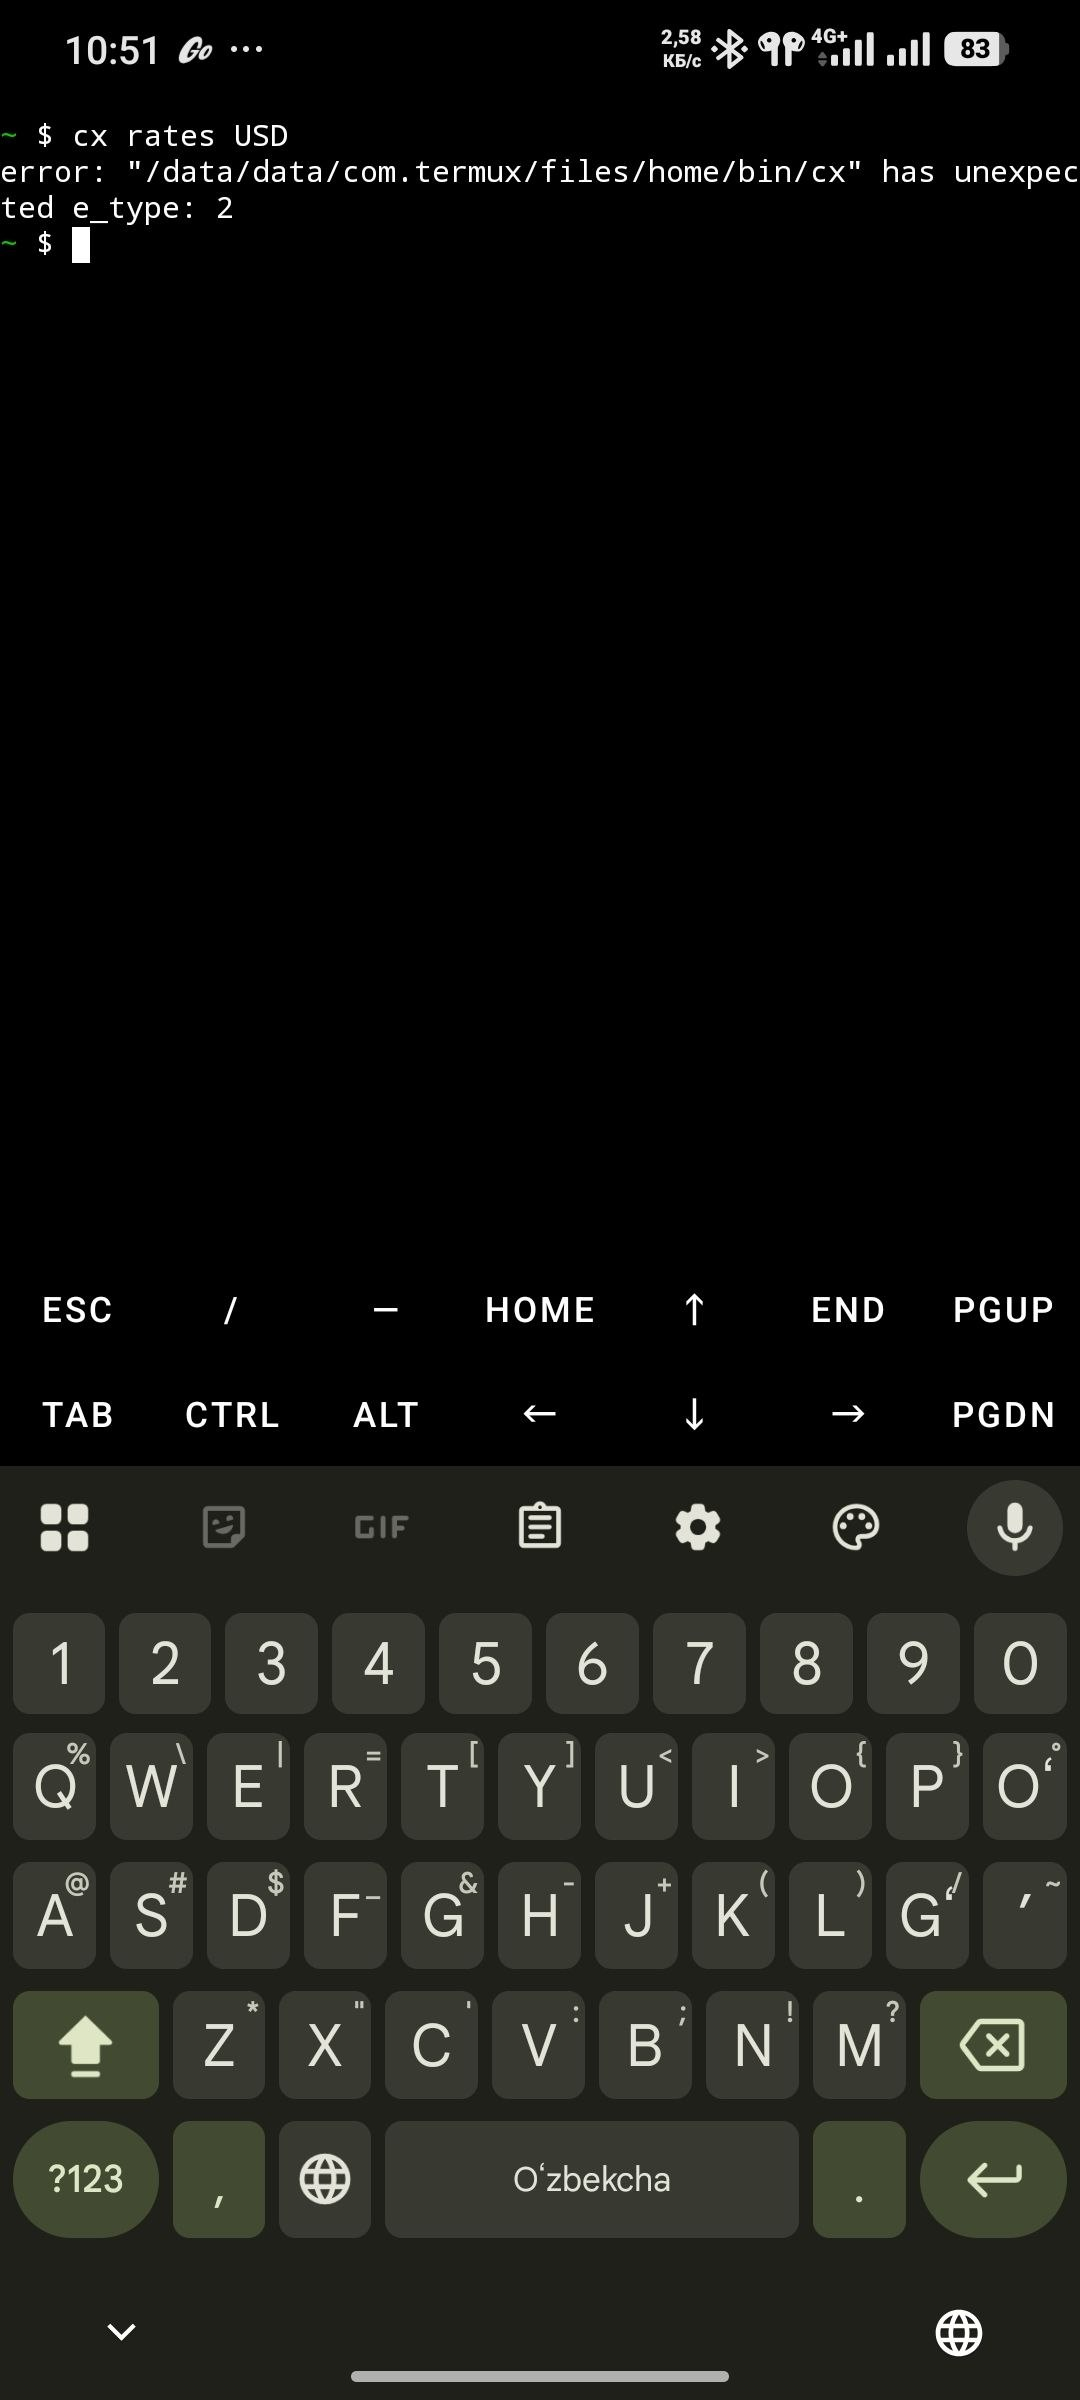
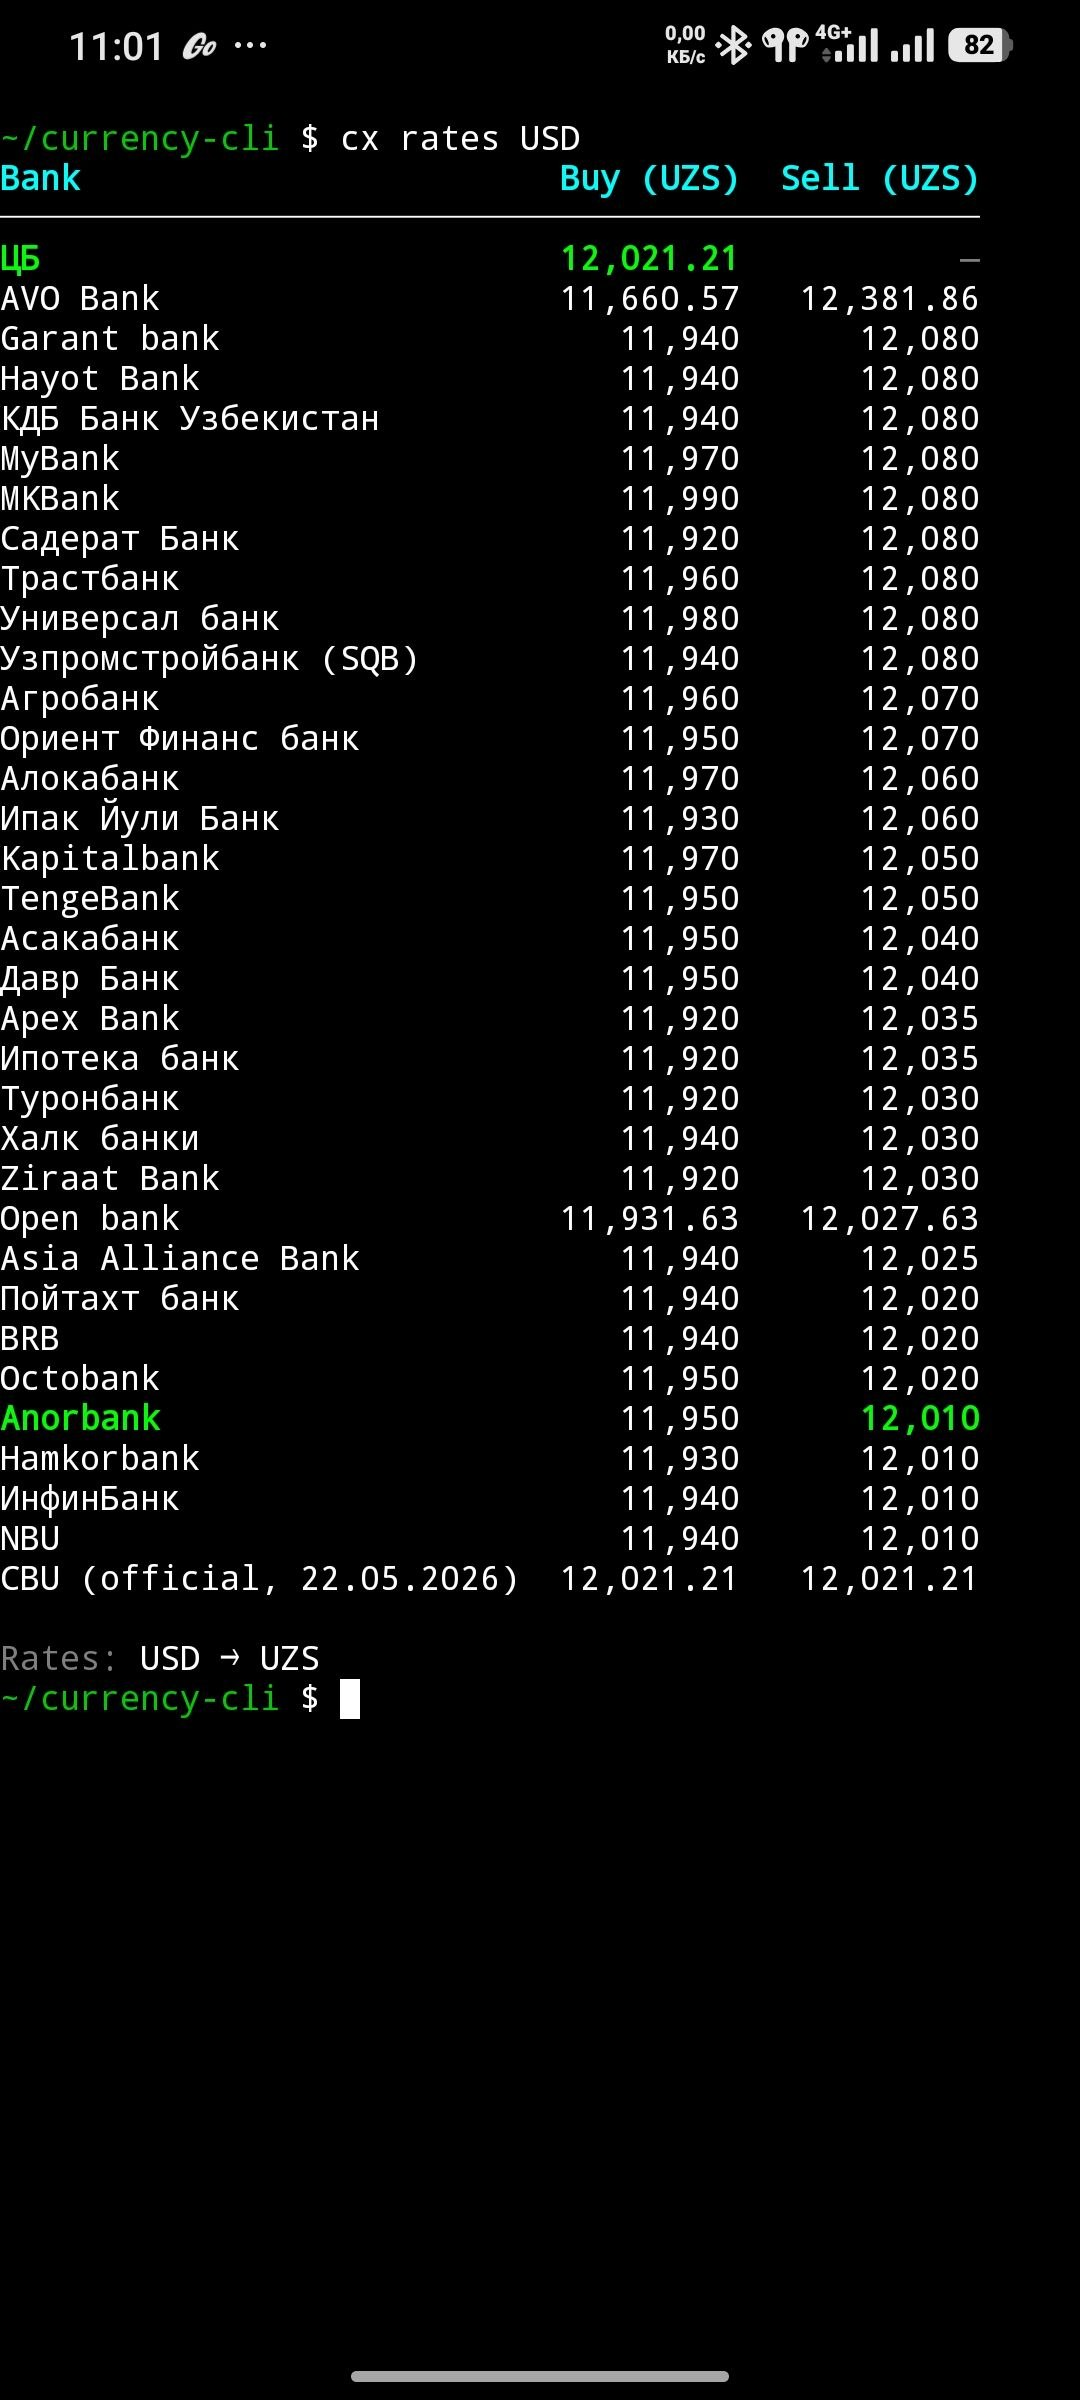
refactor: move entry to cmd/cx/ for clean go install
Restructure to standard Go layout so `go install
github.com/mfs1011/currency-cli/cmd/cx@latest` produces a binary
named `cx` directly — no rename step needed.

- main.go -> cmd/cx/main.go
- cmd/*.go -> internal/cli/*.go (package cmd -> cli)
- update Makefile build path
- update README install instructions and screenshot

diff --git a/cmd/cx/main.go b/cmd/cx/main.go
@@ -1,0 +1,7 @@
+package main
+
+import "github.com/mfs1011/currency-cli/internal/cli"
+
+func main() {
+	cli.Execute()
+}

diff --git a/internal/cli/best.go b/internal/cli/best.go
@@ -1,4 +1,4 @@
-package cmd
+package cli
 
 import (
 	"fmt"

diff --git a/internal/cli/convert.go b/internal/cli/convert.go
@@ -1,4 +1,4 @@
-package cmd
+package cli
 
 import (
 	"fmt"

diff --git a/internal/cli/currencies.go b/internal/cli/currencies.go
@@ -1,4 +1,4 @@
-package cmd
+package cli
 
 import (
 	"fmt"

diff --git a/internal/cli/rates.go b/internal/cli/rates.go
@@ -1,4 +1,4 @@
-package cmd
+package cli
 
 import (
 	"fmt"

diff --git a/internal/cli/root.go b/internal/cli/root.go
@@ -1,4 +1,4 @@
-package cmd
+package cli
 
 import (
 	"fmt"

diff --git a/README.md b/README.md
@@ -18,18 +18,26 @@ Uzbekiston banklari va Markaziy bank kurslarini terminaldan ko'rish va konvertat
 
 ### Mac / Linux
 
+Eng oson — `go install` (clone qilish shart emas):
+
+```bash
+go install github.com/mfs1011/currency-cli/cmd/cx@latest
+```
+
+Binary `~/go/bin/cx` ga o'rnatiladi. `~/go/bin` PATH'da bo'lishi kerak:
+
+```bash
+echo 'export PATH="$HOME/go/bin:$PATH"' >> ~/.zshrc
+source ~/.zshrc
+```
+
+Yoki manbadan build qilish:
+
 ```bash
 git clone https://github.com/mfs1011/currency-cli.git
 cd currency-cli
-go build -o cx .
+go build -o cx ./cmd/cx
 sudo mv cx /usr/local/bin/
-```
-
-Yoki `~/bin` ga:
-
-```bash
-go build -o cx .
-mv cx ~/bin/
 ```
 
 ### Android — Termux
@@ -49,10 +57,10 @@ pkg install golang git
 
 # 2. Loyihani yuklab olish
 git clone https://github.com/mfs1011/currency-cli.git
-cd currency-app
+cd currency-cli
 
 # 3. Build qilish
-go build -o cx .
+go build -o cx ./cmd/cx
 
 # 4. Istalgan joydan ishlatish uchun PATH ga qo'shish
 mkdir -p ~/bin
@@ -73,12 +81,12 @@ cx rates USD
 
 #### 2-yo'l: Macda build qilib, Telegramga yuborish
 
-Agar telefonda Go o'rnatmасangiz — Macda binary yasab, Telegramga yuboring.
+Agar telefonda Go o'rnatmasangiz — Macda binary yasab, Telegramga yuboring.
 
 **Mac da (terminal):**
 
 ```bash
-cd /Users/mfsv/Projects/experiment/currency-app
+cd currency-cli
 make linux-arm64
 # dist/cx-linux-arm64 fayli yaratiladi
 ```
@@ -131,7 +139,7 @@ Bank                        Buy (UZS)    Sell (UZS)
 ----------------------------------------------------
 MKBank                         11,990       12,080
 Kapitalbank                    11,970       12,050
-Alоqabank                      11,970       12,060
+Aloqabank                      11,970       12,060
 ...
 CBU (official, 22.05.2026)     12,021       12,021
 ```
@@ -220,24 +228,27 @@ Yaratilgan fayllar `dist/` papkasida:
 ## Loyiha tuzilmasi
 
 ```
-currency-app/
-├── main.go
+currency-cli/
 ├── Makefile
 ├── cmd/
-│   ├── root.go      # CLI asosi (cobra)
-│   ├── rates.go     # cx rates
-│   ├── convert.go   # cx convert
-│   └── best.go      # cx best
+│   └── cx/
+│       └── main.go      # entry point
 └── internal/
+    ├── cli/
+    │   ├── root.go      # CLI asosi (cobra)
+    │   ├── rates.go     # cx rates
+    │   ├── convert.go   # cx convert
+    │   ├── best.go      # cx best
+    │   └── currencies.go # cx currencies
     ├── api/
-    │   ├── onmap.go  # onmap.uz API
-    │   └── cbu.go    # cbu.uz API
+    │   ├── onmap.go     # onmap.uz API
+    │   └── cbu.go       # cbu.uz API
     ├── cache/
-    │   └── cache.go  # TTL cache
+    │   └── cache.go     # TTL cache
     ├── config/
-    │   └── config.go # ~/.cx/ papkasi
+    │   └── config.go    # ~/.cx/ papkasi
     └── display/
-        └── table.go  # jadval va rang
+        └── table.go     # jadval va rang
 ```
 
 ---
